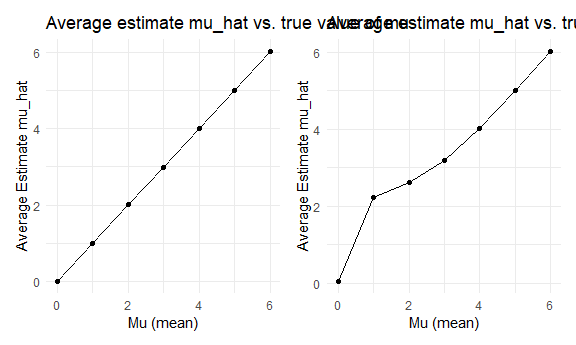
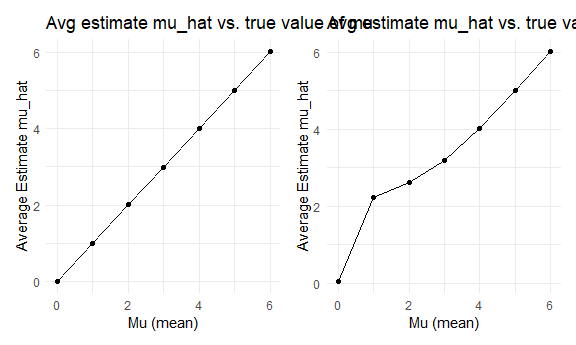
cleaning up messages

Changed region(s): [[0.0938, 0.029, 1.0, 0.1159]]

diff --git a/p8105_hw5_kpr2118.md b/p8105_hw5_kpr2118.md
@@ -63,8 +63,6 @@ aggregate_df =
     )
 ```
 
-    ## `summarise()` ungrouping output (override with `.groups` argument)
-
 Single city prop test…
 
 ``` r
@@ -178,7 +176,7 @@ sim_one_samp = function(n = 30, mu = 0, sigma = 5) {
 }
 ```
 
-Repeat sim for mu = 1:6
+Repeat simulation for mu = 1:6
 
 ``` r
 sim_results = 
@@ -216,11 +214,12 @@ sim_results %>%
   labs(title = "Power per mu value")
 ```
 
-    ## `summarise()` ungrouping output (override with `.groups` argument)
-
 <img src="p8105_hw5_kpr2118_files/figure-gfm/unnamed-chunk-11-1.png" width="90%" />
 
 Describe the association here
+
+Now let’s look at the average estimate (mu\_hat) compared to the true
+value of mu…
 
 ``` r
 avg_est_p = 
@@ -232,12 +231,8 @@ avg_est_p =
     geom_line() + 
     xlab("Mu (mean)") +
     ylab("Average Estimate mu_hat") + 
-    labs(title = "Average estimate mu_hat vs. true value of mu")
-```
+    labs(title = "Avg estimate mu_hat vs. true value of mu")
 
-    ## `summarise()` ungrouping output (override with `.groups` argument)
-
-``` r
 avg_est_rej_p = 
   sim_results %>% 
     group_by(mu) %>% 
@@ -248,12 +243,9 @@ avg_est_rej_p =
     geom_line() + 
     xlab("Mu (mean)") +
     ylab("Average Estimate mu_hat") + 
-    labs(title = "Average estimate mu_hat vs. true value of mu (for 'reject')")
-```
+    labs(title = "Avg estimate mu_hat vs. true value of mu (for 'reject')")
 
-    ## `summarise()` ungrouping output (override with `.groups` argument)
 
-``` r
 avg_est_p + avg_est_rej_p
 ```
 
